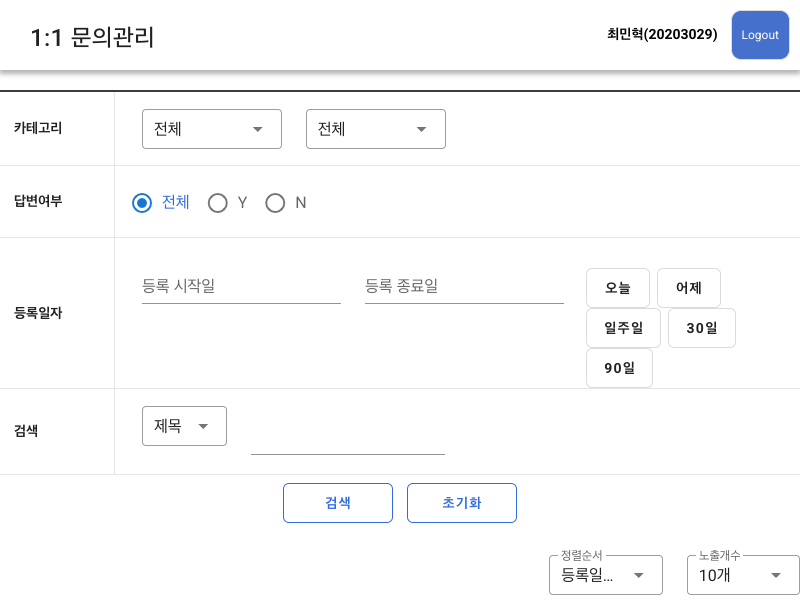
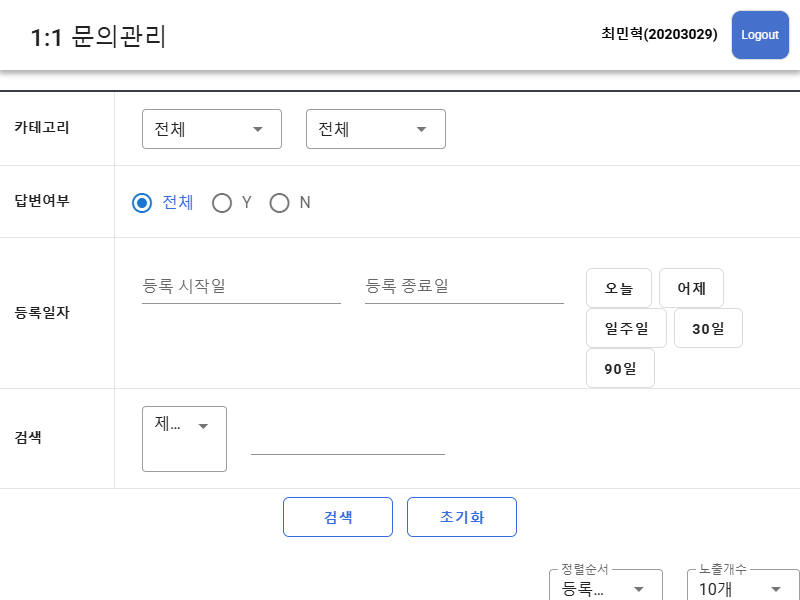
Add pagination logic to crawler and separate crawl_all script

diff --git a/WORK_LOG.md b/WORK_LOG.md
@@ -9,6 +9,8 @@
 - [x] 크롤러 실행을 위한 `run_crawler.bat` 윈도우용 배치 파일 생성
 - [x] 환경변수 `.env` 파일에 맥북 환경과 동일한 Key 세팅 완료
 - [x] 윈도우 작업 스케줄러 등록 가이드 작성 (매 10분 주기)
+- [x] 기존 `voc_crawler.cjs`를 상위 3페이지만 탐색하도록 수정 (시스템 부하 방지)
+- [x] 과거 전체 데이터를 최초 1회 수집하기 위한 `crawl_all_voc.cjs` 스크립트 분리 생성
 
 ### 🔄 다음 이어서 할 작업 (Next Steps)
 - [ ] (추후 보안 관련) `SECURITY_TODO.md` 에 기재된 데이터베이스 접근 제한(RLS) 설정 진행
